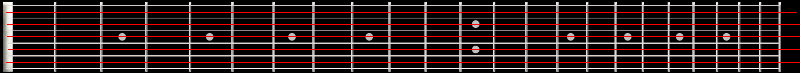
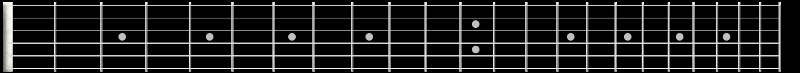
v0.0.1 is out

diff --git a/tablature.js b/tablature.js
@@ -1,7 +1,29 @@
+var str6 = str5 = str4 = str3 = str2 = str1 = "";
+var ddd  = "-";
+var dddd  = "--";
 function write_tab(s, f)
 {
-	document.pointform.input.value += s;
-	document.pointform.input.value += " ";
-	document.pointform.input.value += f;
-	document.pointform.input.value += "\n";
+	
+	FR = f; strng = s;
+
+	if (FR>9) 
+	{
+		if(dddd=="--"){dddd="---"};
+	}
+	else
+	{
+		if(dddd=="---"){dddd="--"};
+	}
+	if(strng==6){str6 += FR + ddd;} else {str6 += dddd;}
+	if(strng==5){str5 += FR + ddd;} else {str5 += dddd;}
+	if(strng==4){str4 += FR + ddd;} else {str4 += dddd;}
+	if(strng==3){str3 += FR + ddd;} else {str3 += dddd;}
+	if(strng==2){str2 += FR + ddd;} else {str2 += dddd;}
+	if(strng==1){str1 += FR + ddd;} else {str1 += dddd;}
+	display();
+	
+}
+function display()
+{
+	document.getElementById('input').value = (str6 + "\n" + str5 + "\n" + str4 + "\n" + str3 + "\n" + str2 + "\n" + str1 + "\n");
 }

diff --git a/index.html b/index.html
@@ -150,8 +150,7 @@
 	<br />
 	<br />
 	<br />
-	<form name="pointform" method="post">
-		<textarea name="input" ></textarea>
-	</form>
+		<textarea id="input" name="input" rows="7" cols="100" ></textarea>
 </body>
+</html>
 </html>
